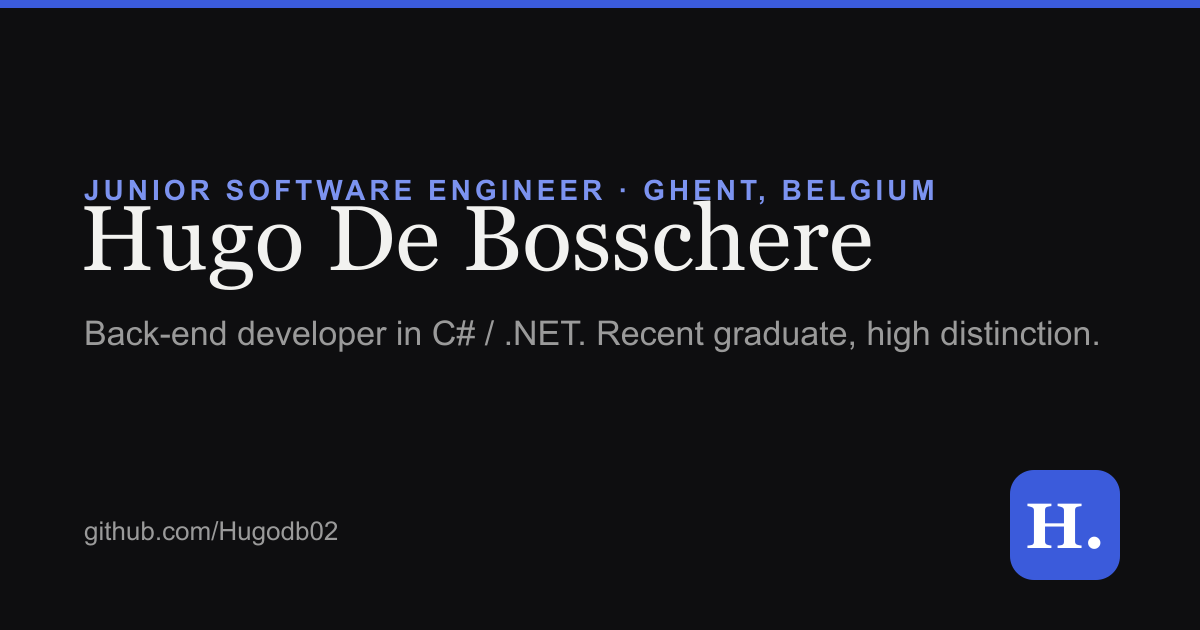
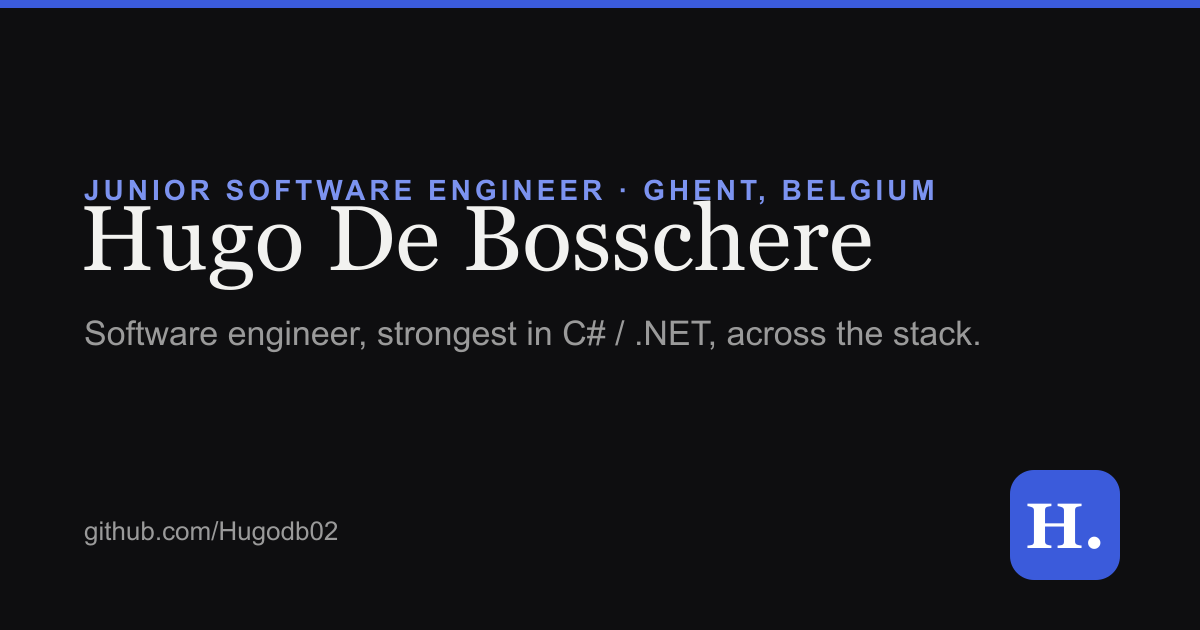
content: broaden OG card and README to match hero/about

Changed region(s): [[0.0617, 0.4825, 0.925, 0.573]]

diff --git a/README.md b/README.md
@@ -1,10 +1,10 @@
-# Hugo De Bosschere — Portfolio
+# Hugo De Bosschere · Portfolio
 
-A clean, fast, single-page portfolio for **Hugo De Bosschere**, a junior software engineer from Ghent, Belgium specialising in **C# / .NET** back-end development.
+A clean, fast, single-page portfolio for **Hugo De Bosschere**, a junior software engineer from Ghent, Belgium. He builds software end to end, with his strongest ground in **C# / .NET** back-ends, and works across the stack with TypeScript, React Native and Remix.
 
 ![Portfolio social card](./public/images/og-image.png)
 
-> **Live:** _deploying to Vercel — URL added here once live._
+> **Live:** [portfolio-hugo-de-bosschere.vercel.app](https://portfolio-hugo-de-bosschere.vercel.app)
 
 ---
 
@@ -18,12 +18,13 @@ A clean, fast, single-page portfolio for **Hugo De Bosschere**, a junior softwar
 | Fonts | Self-hosted [Fraunces](https://fonts.google.com/specimen/Fraunces) + [Inter](https://fonts.google.com/specimen/Inter) via Fontsource |
 | Hosting | Vercel |
 
-Built with **zero client-side framework JavaScript** — interactivity (theme toggle, sticky-nav highlight, mobile menu, reveal-on-scroll) is a handful of tiny inline scripts. The result is a near-instant, accessible page targeting Lighthouse ≥ 95 across the board.
+Built with **zero client-side framework JavaScript**. The interactivity (theme toggle, sticky-nav highlight, mobile menu, custom cursor, reveal-on-scroll) is a handful of tiny inline scripts. The result is a near-instant, accessible page targeting Lighthouse ≥ 95 across the board.
 
 ## Features
 
 - Single page: Hero · About · Selected Work · Experience · Education · Skills · Languages · Contact
 - Light / dark mode with system-preference detection and no flash of the wrong theme
+- Custom cursor (dot + trailing ring) on fine pointers, with reduced-motion and touch fallbacks
 - Responsive from 375px to 1440px+, smooth scrolling, sticky nav with active-section highlight
 - Optimised, responsive images via `astro:assets`
 - Full SEO + Open Graph / Twitter card meta
@@ -43,16 +44,15 @@ npm run preview  # preview the production build locally
 
 ```
 src/
-├── components/   # Astro UI components (Nav, Hero, About, SelectedWork, …)
+├── components/   # Astro UI components (Nav, Hero, About, SelectedWork, ...)
 ├── data/         # typed content: site, projects, experience, education, skills
 ├── layouts/      # BaseLayout (head, meta, theme bootstrap)
 ├── pages/        # index.astro (the single page)
 └── styles/       # global.css (design tokens + Tailwind)
-public/
-├── cv/           # downloadable CV (PDF)
-└── images/       # social card and static assets
+public/           # CV, favicons, social card, static assets
 scripts/
-└── generate-og.mjs   # regenerates the Open Graph image
+├── generate-og.mjs          # regenerates the Open Graph image
+└── generate-favicons.mjs    # regenerates the favicons from the source logo
 ```
 
 ## License
